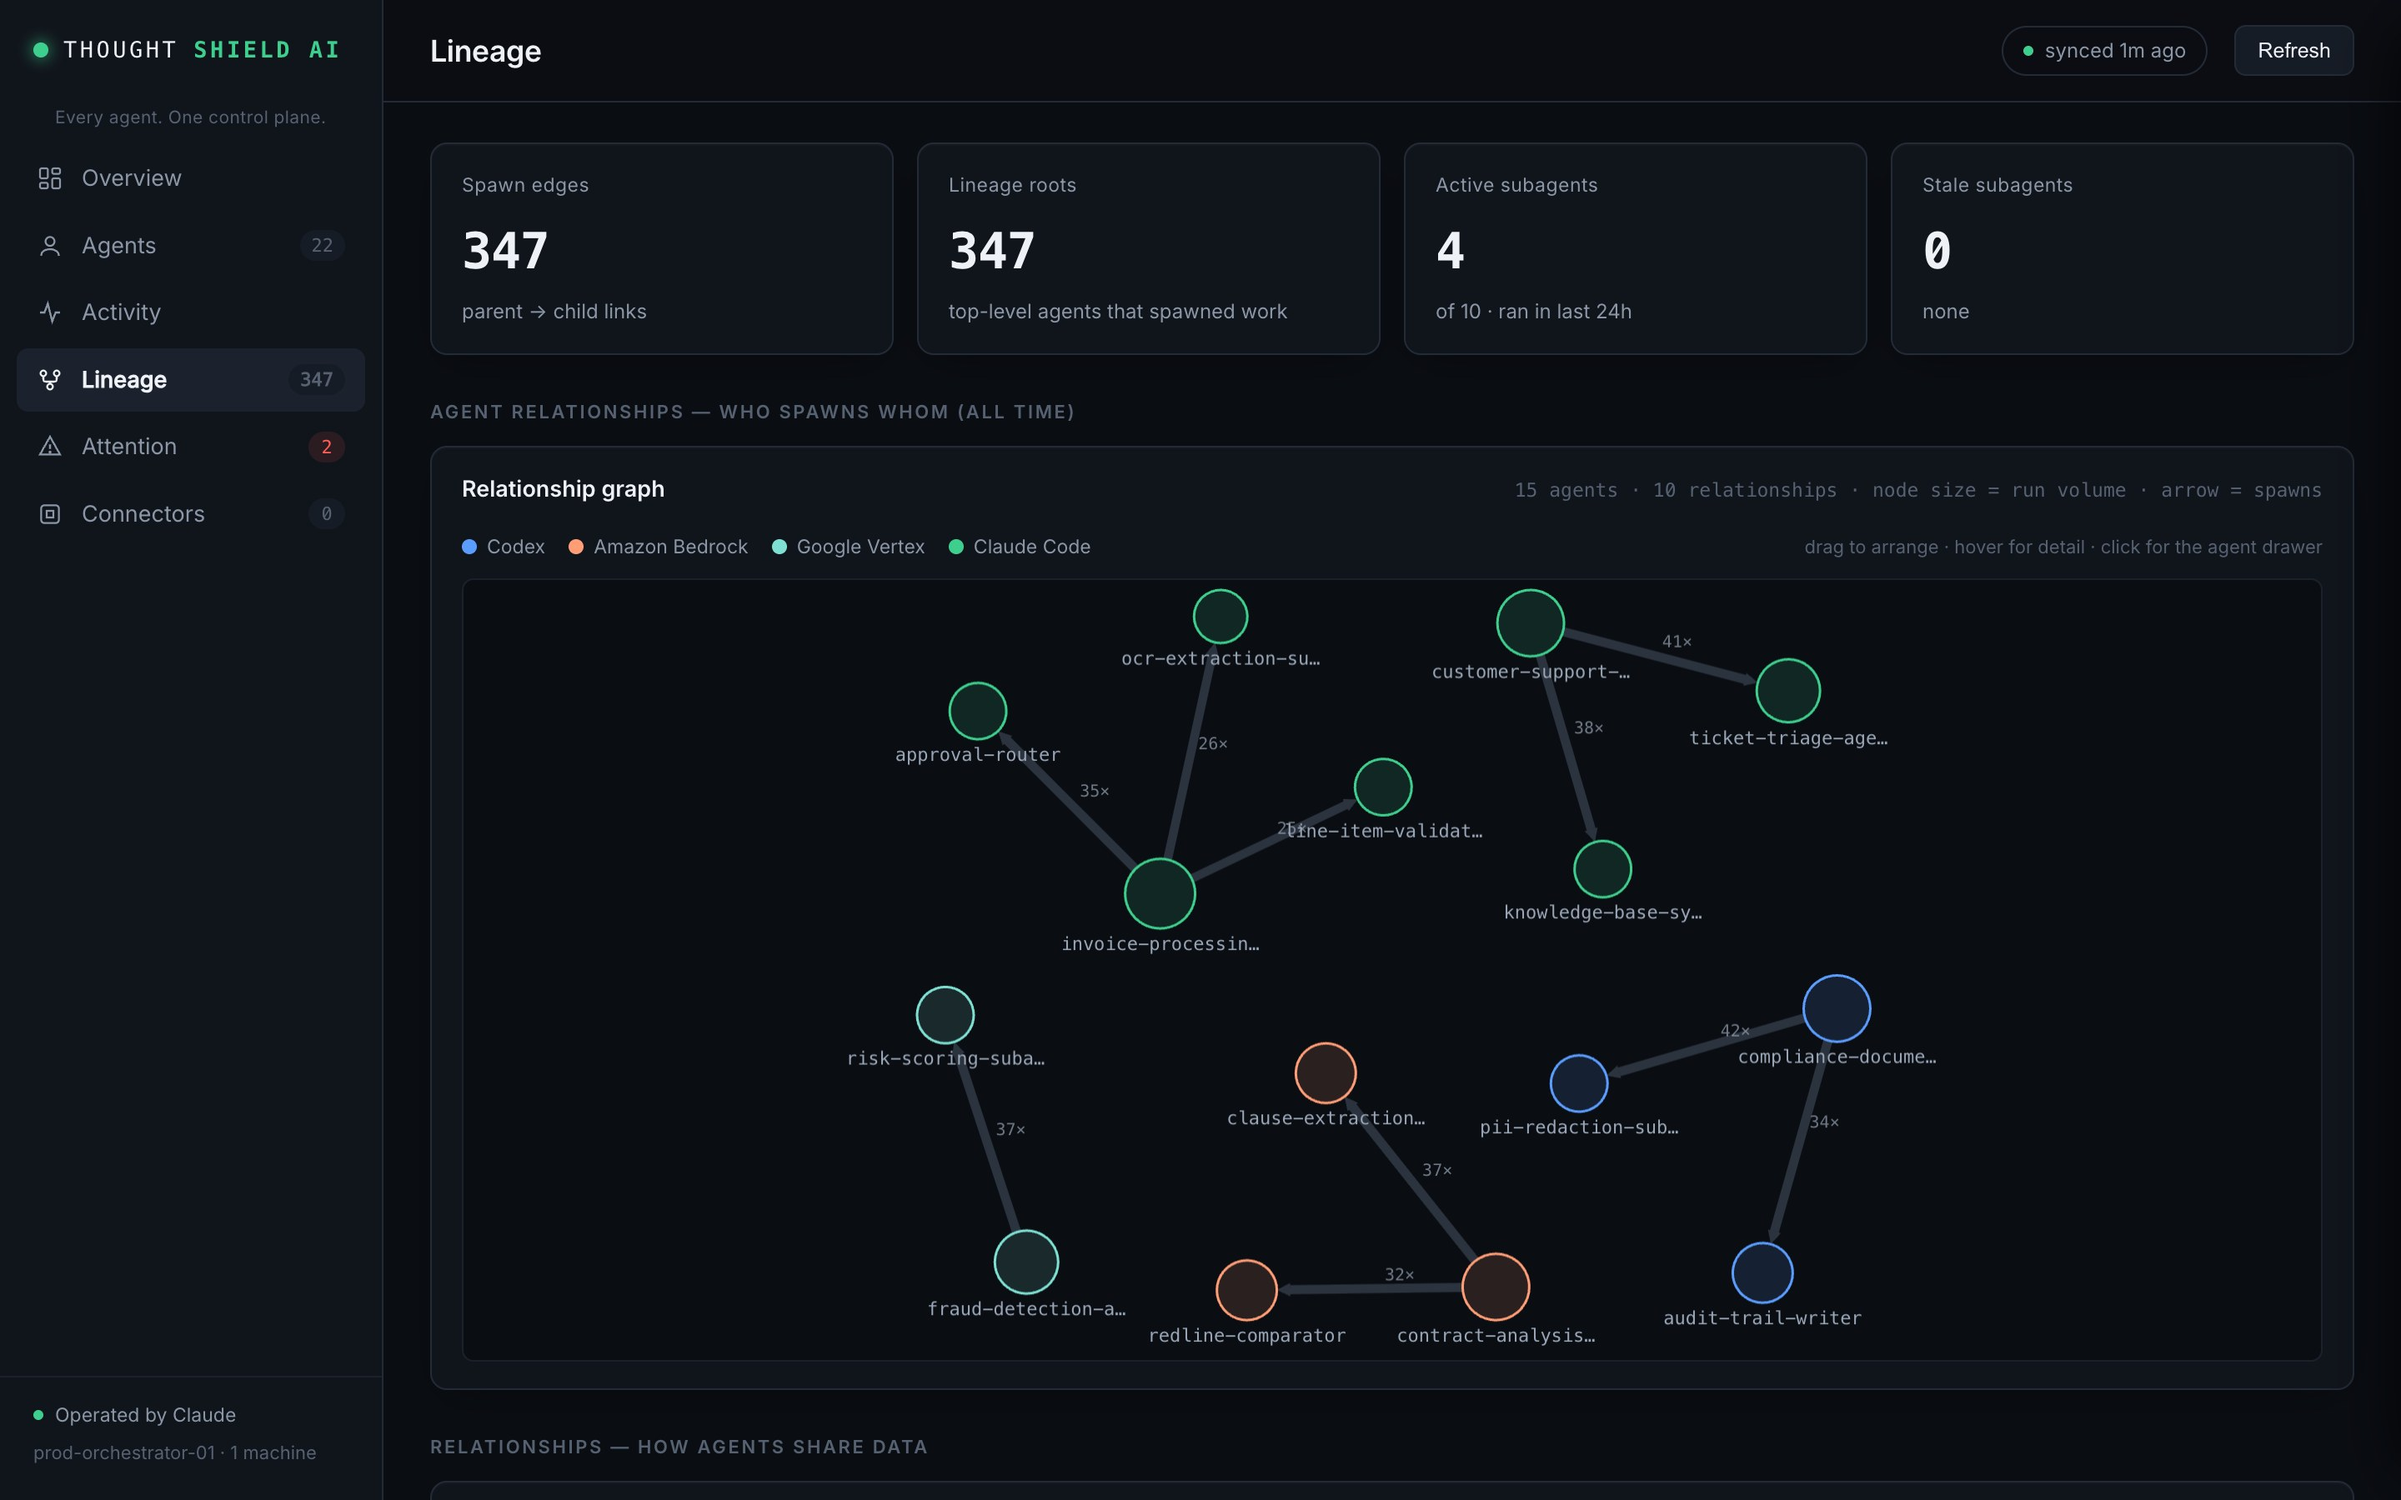
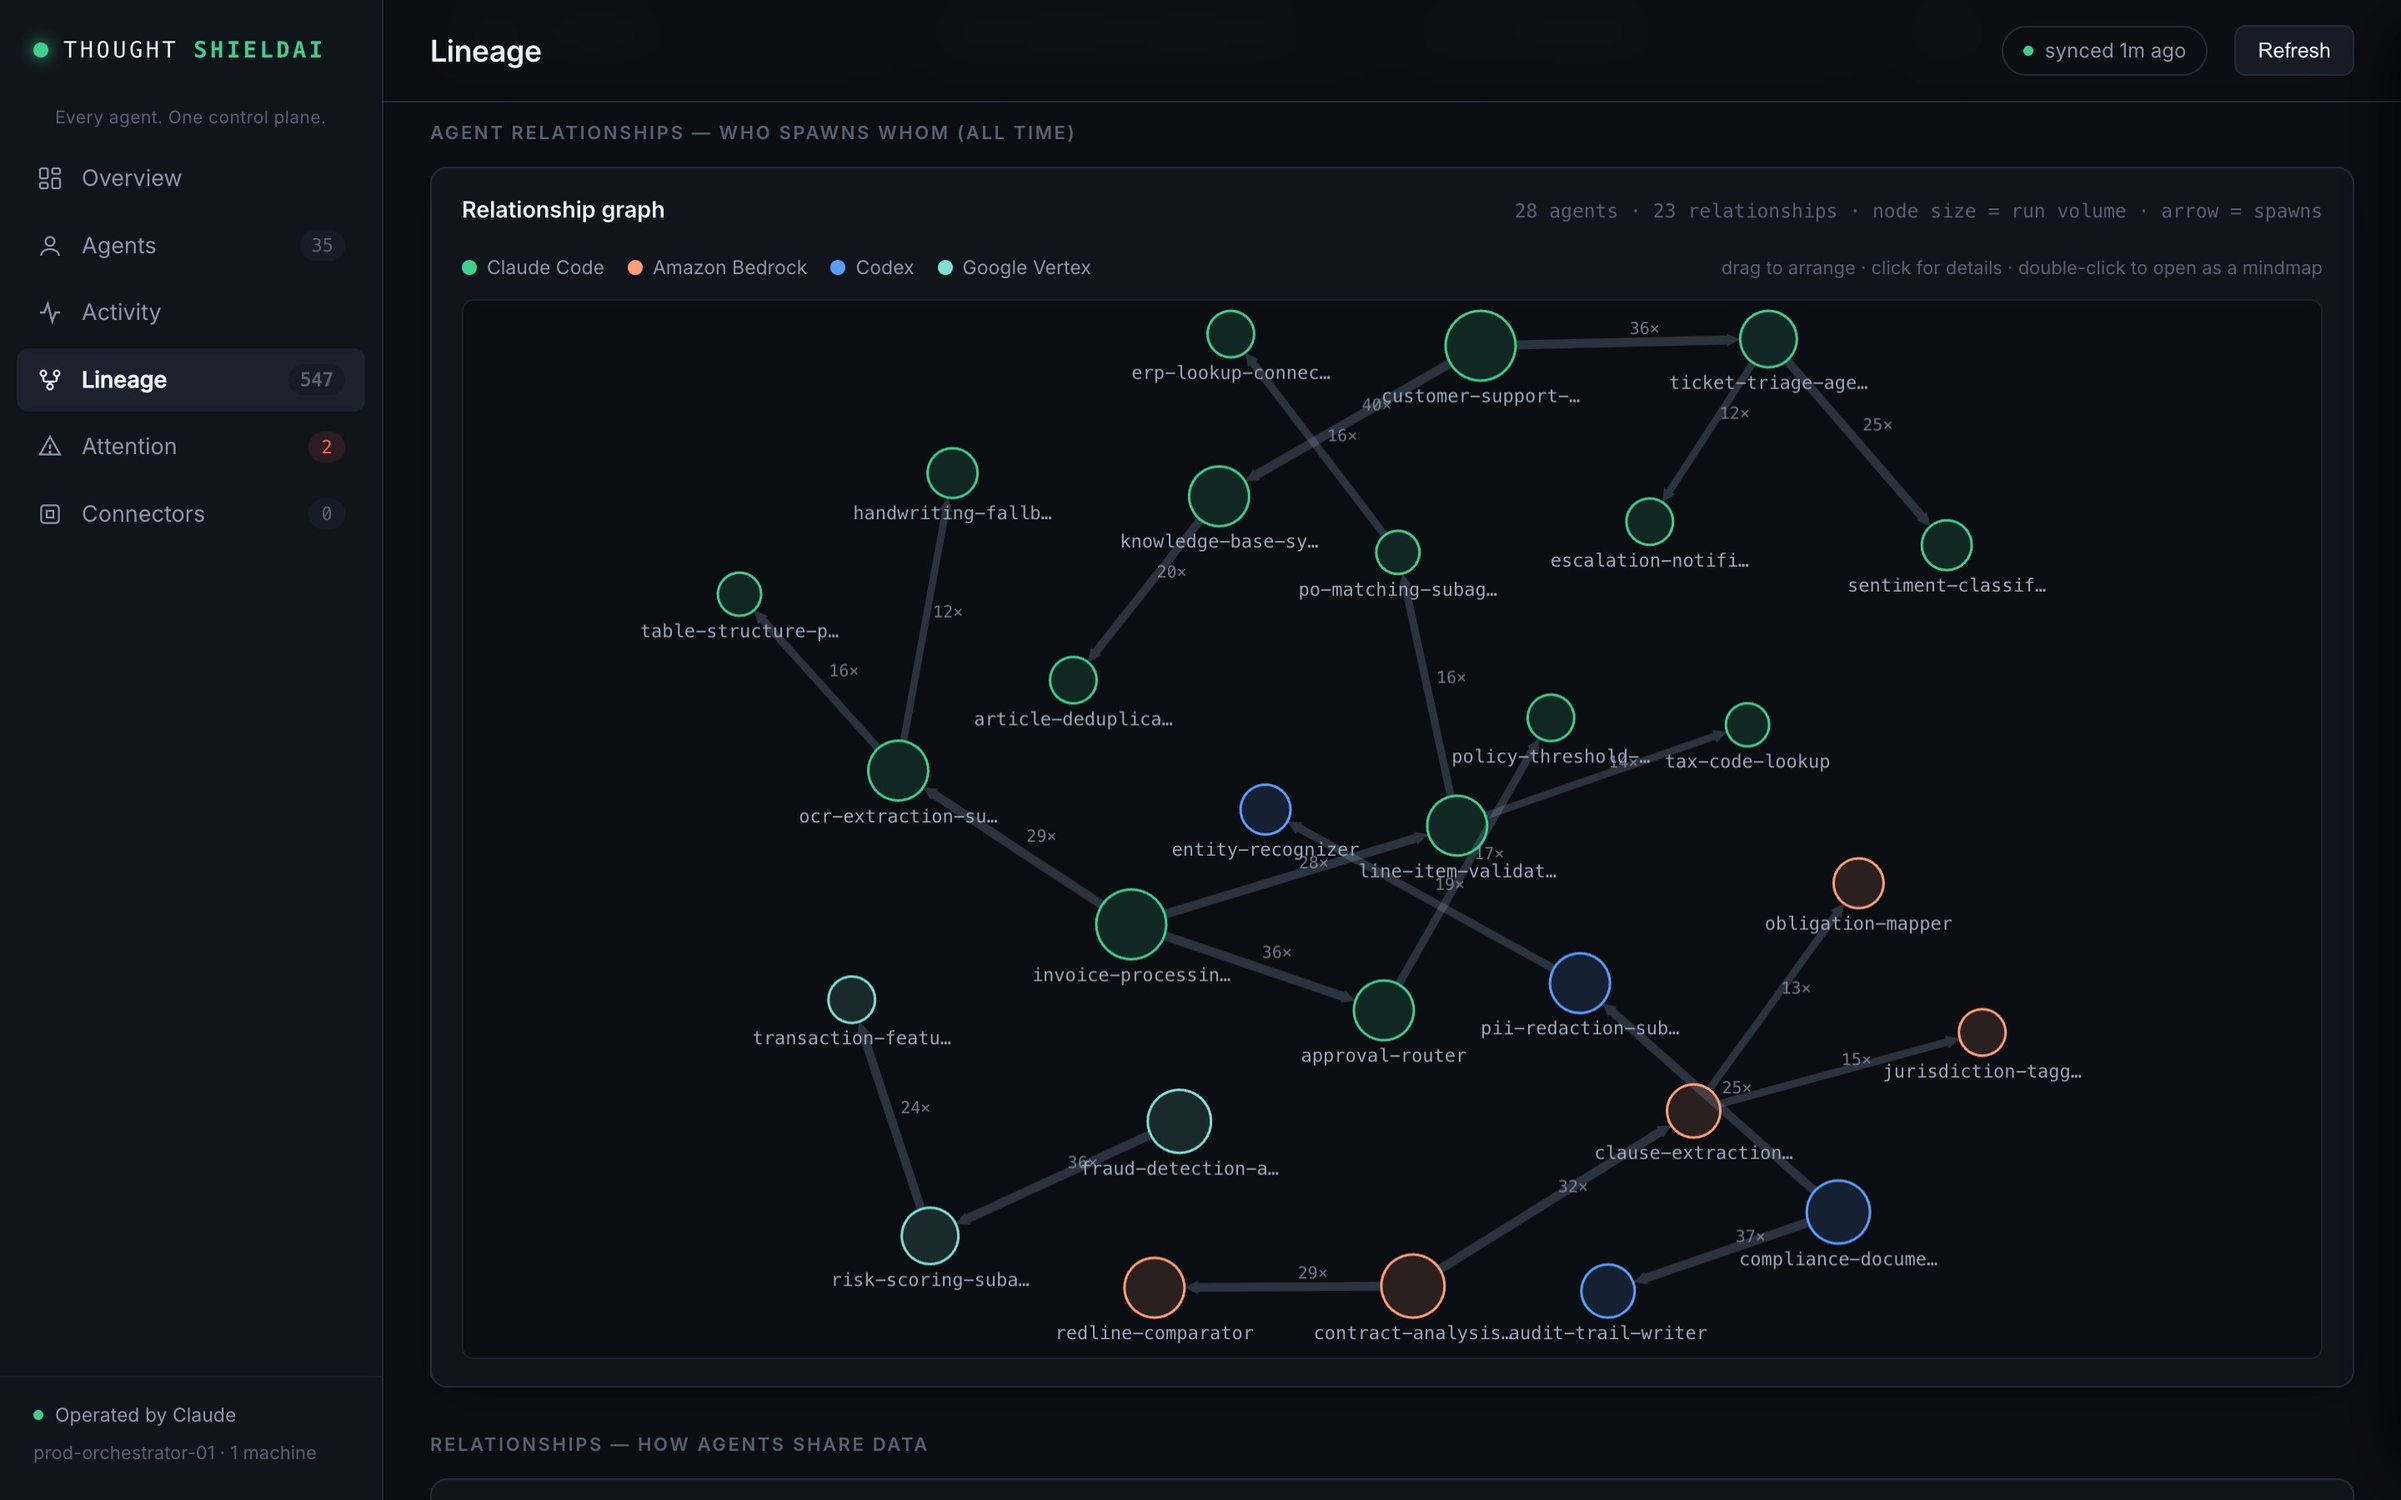
Size the map to its tree, keep edge labels off the names, and show the mindmap in the README
The fleet canvas now grows with the agent count (28 agents were pinned to the
edges of a 470px box) while a mindmap is sized to its own tree. Tree-mode edge
labels sit near the far end of the line, lifted off it, so a fan of edges from
one bubble no longer stacks its counts or writes over the next agent's name.

README screenshots refreshed from the deeper demo fleet, plus the mindmap
unfolded three levels beside its detail drawer.

diff --git a/dashboard/index.html b/dashboard/index.html
@@ -776,7 +776,10 @@ function agentGraphCard(){
   return c;
 }
 function initGraph(canvas){
-  let W=canvas.clientWidth||900, H=470;
+  let W=canvas.clientWidth||900;
+  const fleetH=()=>Math.max(470,Math.min(720,300+GRAPH.nodes.length*12)); // 15 agents → 480, 30 → 660
+  let H=fleetH();
+  canvas.style.height=H+'px';
   const dpr=window.devicePixelRatio||1;
   const ctx=canvas.getContext('2d');
   const BG=getComputedStyle(canvas).backgroundColor||'#0f1319';
@@ -829,7 +832,7 @@ function initGraph(canvas){
     drag=null; down=null; hover=null; badgeDown=null; badgeHover=null; lastClick=prevClick=null; hideTip();
     lastOccl=occlusion();
     T=info?layoutTree():null;
-    if(!T&&H!==470){ H=470; canvas.style.height=''; fit(); }
+    if(!T&&H!==fleetH()){ H=fleetH(); canvas.style.height=H+'px'; fit(); }
     alpha=Math.max(alpha,.35);
     paintChrome();
   }
@@ -845,7 +848,7 @@ function initGraph(canvas){
     const R=root.kids.filter(k=>byFp(k).side==='right'), L=root.kids.filter(k=>byFp(k).side==='left');
     const hR=R.reduce((s,k)=>s+size(k),0), hL=L.reduce((s,k)=>s+size(k),0);
     let DR=0, DL=0; for(const n of N){ if(n.side==='right') DR=Math.max(DR,n.depth); if(n.side==='left') DL=Math.max(DL,n.depth); }
-    const need=Math.max(470,Math.min(900,Math.max(hR,hL)+80));
+    const need=Math.max(470,Math.min(900,Math.max(hR,hL)+80)); // sized to the tree, not the fleet
     if(need!==H){ H=need; canvas.style.height=H+'px'; fit(); }
     const Wv=W-lastOccl;
     const COL=Math.max(COL_MIN,Math.min(COL_MAX,(Wv-150)/Math.max(1,DL+DR)));
@@ -918,10 +921,12 @@ function initGraph(canvas){
         ctx.fillStyle=hi?'rgba(232,237,244,.95)':'rgba(154,167,184,.7)';
         ctx.font='10px ui-monospace,monospace';
         const vol=hi&&e.dataDown!=null?`  ${fmt(e.dataDown)}ch↓ ${fmt(e.dataUp)}ch↑`:'';
-        // on the map the lines fan out from one bubble, so labels sit nearer
-        // the far end where the lines have separated
-        const k=T?.62:.5;
-        ctx.fillText(e.spawns+'×'+vol,x1+(x2-x1)*k+5,y1+(y2-y1)*k-5);
+        if(T){ // lines fan out from one bubble: sit the label near the far end,
+               // lifted off the line, clear of the name under the next bubble
+          ctx.textAlign='center';
+          ctx.fillText(e.spawns+'×'+vol,x1+(x2-x1)*.7+dy*9,y1+(y2-y1)*.7-dx*9+3);
+          ctx.textAlign='left';
+        } else ctx.fillText(e.spawns+'×'+vol,(x1+x2)/2+5,(y1+y2)/2-5);
       }
     }
     N.forEach((n,i)=>{

diff --git a/README.md b/README.md
@@ -23,6 +23,9 @@ operate the fleet.
   <img src="docs/assets/dashboard-overview.jpg" alt="AnveInspect dashboard — fleet overview" width="49%">
   <img src="docs/assets/dashboard-lineage.jpg" alt="AnveInspect dashboard — agent lineage graph" width="49%">
 </p>
+<p align="center">
+  <img src="docs/assets/dashboard-mindmap.jpg" alt="AnveInspect dashboard — mindmap: invoice-processing-agent unfolded three levels deep beside its detail drawer" width="98.5%">
+</p>
 <p align="center"><sub>Sample fleet shown — illustrative data, not a real customer's.</sub></p>
 
 ```bash
@@ -101,8 +104,11 @@ Six views (`npm run dash` → http://localhost:4177):
 - **Activity** — live chronological feed of runs across every platform.
 - **Lineage** — the **agent relationship graph** (interactive force layout: who
   spawns whom across all executions, node size = run volume, edge weight + arrow =
-  spawn direction and count, drag/hover/click-through) plus the spawn-tree explorer
-  for single executions (click a root to expand, with subtree tokens and descendant
+  spawn direction and count, drag/hover/click-through). Double-click any agent to
+  open it as a **mindmap**: the agents it spawns unfold to its right, the agents
+  that spawn it to its left, a level at a time (⊕ badges say how many more);
+  double-click again to fold a branch away. Plus the spawn-tree explorer for
+  single executions (click a root to expand, with subtree tokens and descendant
   counts).
 - **Attention** — open alerts (with Ack) + stale agents.
 - **Connectors** — per-platform plug-and-play health.
